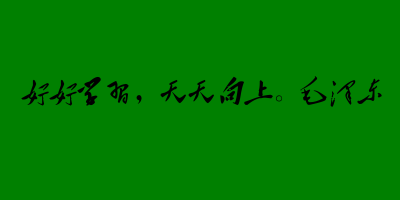
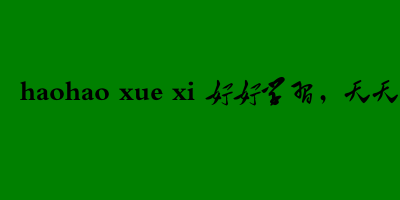
dec 8 middle

Changed region(s): [[0.03, 0.39, 1.0, 0.54]]

diff --git a/app/controllers/txts_controller.rb b/app/controllers/txts_controller.rb
@@ -44,17 +44,31 @@ class TxtsController < ApplicationController
 
     respond_to do |format|
       if @txt.save
+        #--- path and name
+        font_path = 'D:\\fonts'
         images_path = "public/images"
-        file_name=@txt.image_url
-        file_path = images_path + "/"+ file_name
-        img = Magick::Image.new(400,200,Magick::HatchFill.new('white','white')) 
-        gc= Magick::Draw.new
-        gc.stroke('transparent') 
-        gc.pointsize(22)
-        gc.font='maozedong.ttf'
-        gc.text(20,100,@txt.text)
-        gc.draw(img)
-        img.write(file_path)
+        output_path = 'public/images/outputs'
+        bg_image_path = images_path + "/"+ "background1.png"
+
+        require 'find'
+        
+        Find.find(font_path) do |f|
+          img = Magick::Image.read(bg_image_path).first    #图片路径
+          gc= Magick::Draw.new
+          gc.annotate(img, 0, 0, 250, 80, @txt.text) do  #可以设置文字的位置，参数分别为路径、宽度、高度、横坐标、纵坐标
+            #self.gravity = Magick::CenterGravity
+            self.font = f
+            #self.font_weight = Magick::BoldWeight      #粗体
+            self.pointsize = 22                         #字体的大小
+            self.fill = '#FFF'                         #字体的颜色
+            #self.gravity = Magick::SouthEastGravity
+            self.stroke = "none"
+          end          
+          font_file_name = File.basename(f, 'ttf')
+          file_path = output_path + "/"+ @txt.image_url + "_" + font_file_name + "png"  
+          img.write(file_path)  
+        end
+        
         #@path = file_name
         format.html { redirect_to(@txt, :notice => 'Txt was successfully created.') }
         format.xml  { render :xml => @txt, :status => :created, :location => @txt }

diff --git a/app/controllers/home_controller.rb b/app/controllers/home_controller.rb
@@ -3,13 +3,15 @@ class HomeController < ApplicationController
     images_path = "public/images"
     file_name="txt2img.png"
     file_path = images_path + "/"+ file_name
-    img = Magick::Image.new(400,200,Magick::HatchFill.new('transparent','transparent')) 
+    img = Magick::Image.new(400,200,Magick::HatchFill.new('white','white')) 
     #img.opacity = 100
     gc= Magick::Draw.new
     gc.stroke('transparent') 
     gc.pointsize(28)
-    gc.font='maozedong.ttf'
-    gc.text(20,100,"this is a sample 好好学习，天天向上。毛泽东")
+    gc.font='lib/fonts/maozedong.ttf'
+    str = "好好学习，天天向上"
+    puts str
+    gc.text(20,100,str) 
     gc.draw(img)
     img.write(file_path)
     @path = file_name

diff --git a/app/controllers/application_controller.rb b/app/controllers/application_controller.rb
@@ -1,3 +1,15 @@
 class ApplicationController < ActionController::Base
   protect_from_forgery
+  
+  #为应用程序中所有controller的action添加如下filter。
+  #before_filter :set_charset
+  
+  #设置字符集
+  #def set_charset
+  #  @headers["Content-Type"] = "text/html; charset=utf8"
+  #  @response.headers["Content-Type"] = "text/html; charset=utf8"
+  #  suppress(ActiveRecord::StatementInvalid) do
+  #    ActiveRecord::Base.connection.execute 'SET NAMES utf8'
+  #  end
+  #end
 end

diff --git a/testfont/test.rb b/testfont/test.rb
@@ -1,3 +1,6 @@
+=begin
+  
+
 require 'rubygems'
 require 'RMagick'
 imagename='txt2img.png'
@@ -6,6 +9,12 @@ gc= Magick::Draw.new
 gc.stroke('transparent') 
 gc.pointsize(28)
 gc.font='maozedong.ttf'
-gc.text(20,100,'好好学习，天天向上。毛泽东')
+gc.text(20,100,'haohao xue xi 好好学习，天天向上。毛泽东')
 gc.draw(img)
 img.write(imagename)
+
+=end
+
+
+str = 'lib/fonts/maozedong.ttf'
+puts File.basename str
